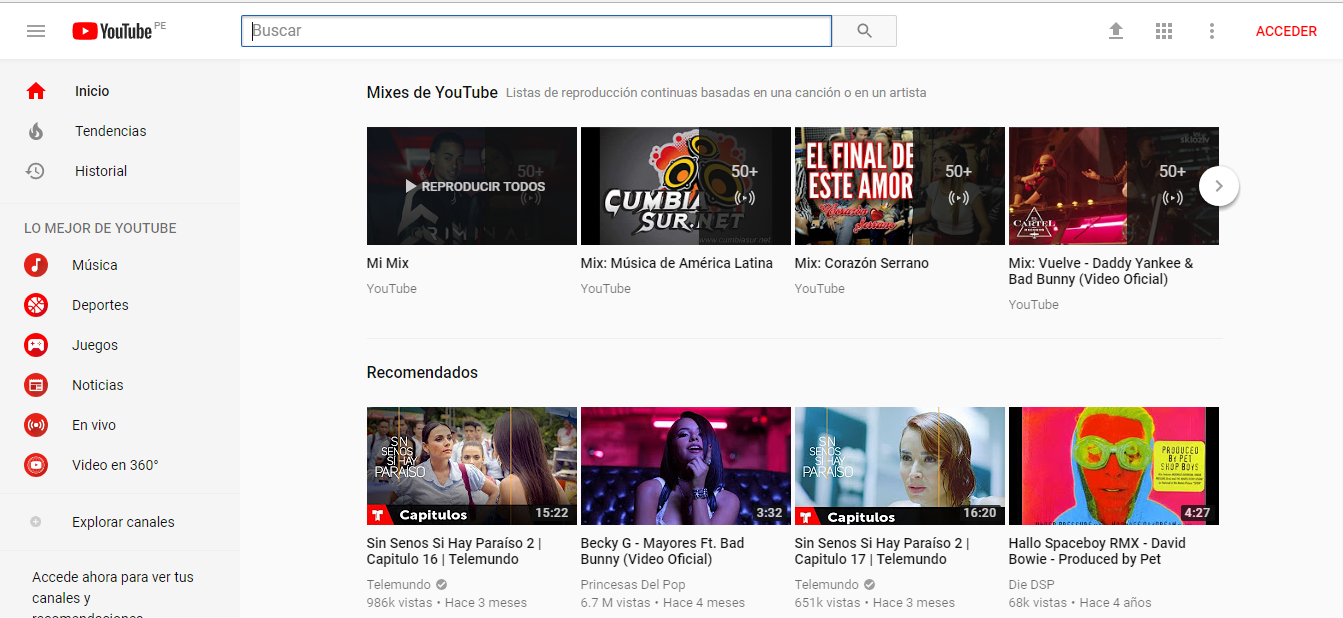
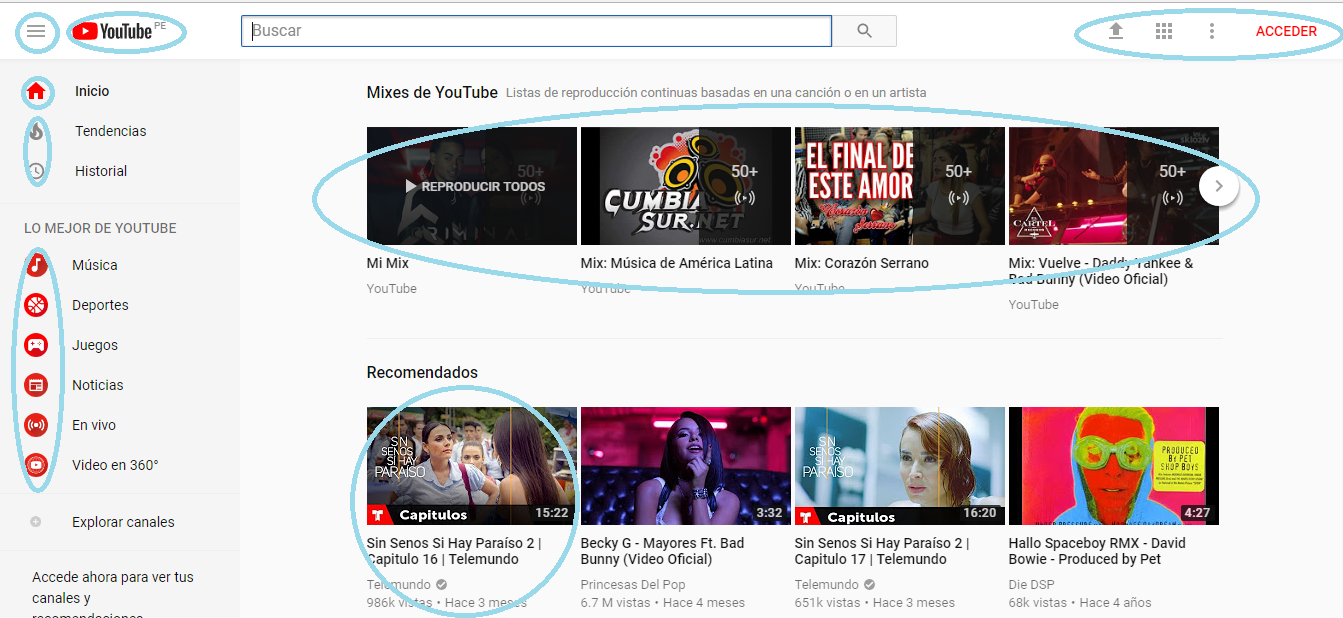
subiendo README

diff --git a/README.md b/README.md
@@ -8,3 +8,16 @@
 * El reto consiste en:
 
    * Elegir una página web, en este caso Youtube, y explicar que partes conforman el UX y qué partes el UI.
+
+* Partes de UI
+  
+  * Color del background del body. 
+
+  * Color de los íconos. 
+
+  * Menu hamburguesa y contenido. 
+
+  ![UI-Youtube](../assets/img/youtube.PNG)
+
+
+* Partes de UX 
